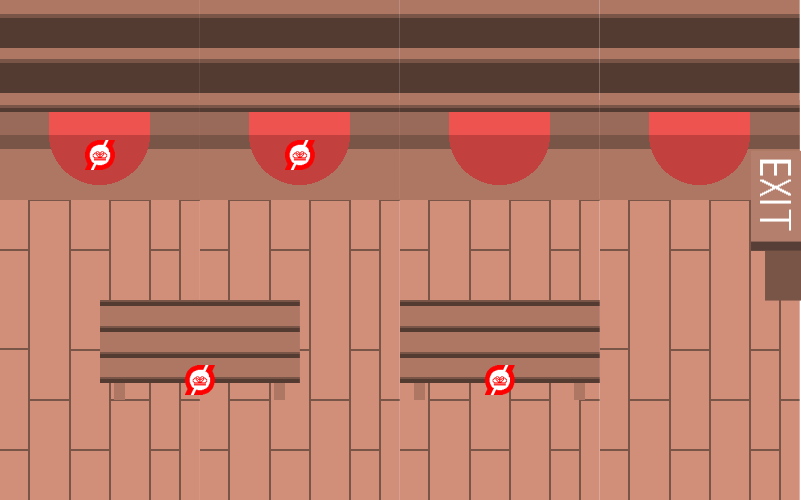
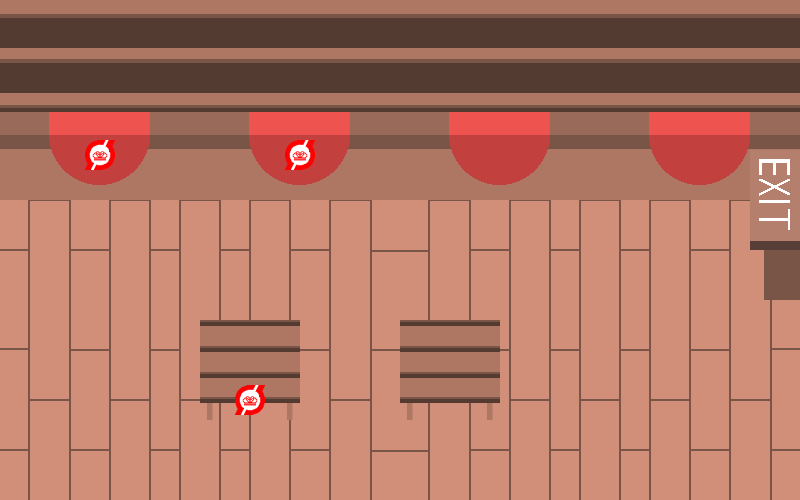
Created a "Cashier" GridObject which invokes the "CHECKOUT" command from Game.java. Checkout function has yet to work

Changed region(s): [[0.125, 0.39, 1.0, 1.0], [0.9375, 0.36, 1.0, 0.39], [0.3438, 0.3, 0.4062, 0.33]]

diff --git a/src/main/java/worldofzuul/DomainLayer/Game.java b/src/main/java/worldofzuul/DomainLayer/Game.java
@@ -102,7 +102,6 @@ public class Game implements IGame {
      * Also populates some of the rooms with items
      * Sets the current room
      */
-    //TODO: add back command?
     private void setStartPosition() {
         currentRoom = rooms.get(0); //this sets the starting position to the first room. (Which will always be outside).
     }
@@ -179,6 +178,8 @@ public class Game implements IGame {
      * if everything is alright adds a new gameResult to the list of results and restarts the game
      */
     private String checkout() {
+        System.out.println("checkout");
+
         if (!currentRoom.canCheckout()) { //checks if it is possible to checkout in the current room.
             return "You can't checkout here, go to the cashier.";
         }
@@ -191,6 +192,8 @@ public class Game implements IGame {
 
         GameResult result = player.getGameResult();
         finishedGames.add(result); //adds the game result of the currently played game to an arraylist of results.
+
+        //TODO implement correct checkout procedure
 
         save();
         StringBuilder returnString = new StringBuilder();
@@ -383,7 +386,6 @@ public class Game implements IGame {
      *
      * @param command second word should be the name of the item the player wants to inspect
      */
-    //TODO:Check both Player and Room for item
     private String inspect(Command command) {
         Item item = currentRoom.getItem(command.getSecondWord());
         return item != null ? item.toString() : "item not found";

diff --git a/src/main/java/worldofzuul/PresentationLayer/GridObjects/PlayerObject.java b/src/main/java/worldofzuul/PresentationLayer/GridObjects/PlayerObject.java
@@ -68,7 +68,7 @@ public class PlayerObject extends GridSprite {
             alert.setHeaderText("do you want to checkout?");
             alert.showAndWait().ifPresent(rs -> {
                 if (rs == ButtonType.OK) {
-                    MainGUI.game.doAction(CommandWord.CHECKOUT.toString(),null);
+                    System.out.println(MainGUI.game.doAction(CommandWord.CHECKOUT.toString(),null));
                 }
             });
         }
@@ -117,5 +117,9 @@ public class PlayerObject extends GridSprite {
      */
     public Grid getActiveGrid() {
         return grid;
+    }
+
+    public Position getPlayerPos(){
+        return playerPos;
     }
 }

diff --git a/src/main/java/worldofzuul/DomainLayer/Room.java b/src/main/java/worldofzuul/DomainLayer/Room.java
@@ -14,6 +14,7 @@ public class Room implements IRoom {
 
     private final String description;
     private final HashMap<String, Room> exits;
+    private boolean canCheckout = false;
 
     private final ArrayList<IShelf> shelves;
     private final ArrayList<IWarp> warps;
@@ -49,8 +50,12 @@ public class Room implements IRoom {
         cashiers.add(new Cashier(xPosition, yPosition));
     }
 
+    public void setCanCheckout(){
+        canCheckout = true;
+    }
+
     public boolean canCheckout(){
-        return false;
+        return canCheckout;
     }
 
     public ArrayList<Item> getItems() {

diff --git a/src/main/java/worldofzuul/PresentationLayer/Controllers/GameCanvasController.java b/src/main/java/worldofzuul/PresentationLayer/Controllers/GameCanvasController.java
@@ -95,7 +95,7 @@ public class GameCanvasController {
                 break;
             case ENTER:
                 // TODO check whether the player is standing in front of a shelf
-                if (true) {
+                if (playerObject.getActiveGrid().getGridObject(new Position(playerObject.getPlayerPos().getX(), playerObject.getPlayerPos().getY()-1)) instanceof Shelf) {
                     shelfMenu.setVisible(true);
                     shelfMenu.setManaged(true);
                     Scene shelfScene = shelfMenu.getScene();

diff --git a/src/main/java/worldofzuul/DataLayer/ContentGenerator.java b/src/main/java/worldofzuul/DataLayer/ContentGenerator.java
@@ -368,6 +368,7 @@ public class ContentGenerator {
         butcher = new Room("at the butcher. \nTo your east is the 3. aisle", 8,5, getBackground("butcher.png"));//, ContentGenerator.getButcherItems());
         cashier = new Room("at the cashier.\nUse command 'checkout' to checkout and finish the game ", 4,4, getBackground("cashier.png"));
 
+        cashier.setCanCheckout();
         cashier.addCashier(1,0);
         cashier.addCashier(2,0);
 

diff --git a/src/main/java/worldofzuul/DomainLayer/Player.java b/src/main/java/worldofzuul/DomainLayer/Player.java
@@ -26,7 +26,6 @@ public class Player implements IPlayer {
 
     public void addItem(Item item) {
         inventory.add(item);
-        //TODO: Discuss whether or not this method should return a boolean.
     }
 
     @Override

diff --git a/src/main/java/worldofzuul/DomainLayer/PlayerType.java b/src/main/java/worldofzuul/DomainLayer/PlayerType.java
@@ -1,8 +1,5 @@
 package worldofzuul.DomainLayer;
 
-import worldofzuul.DomainLayer.Extra;
-import worldofzuul.DomainLayer.Item;
-
 import java.util.ArrayList;
 import java.util.Arrays;
 
